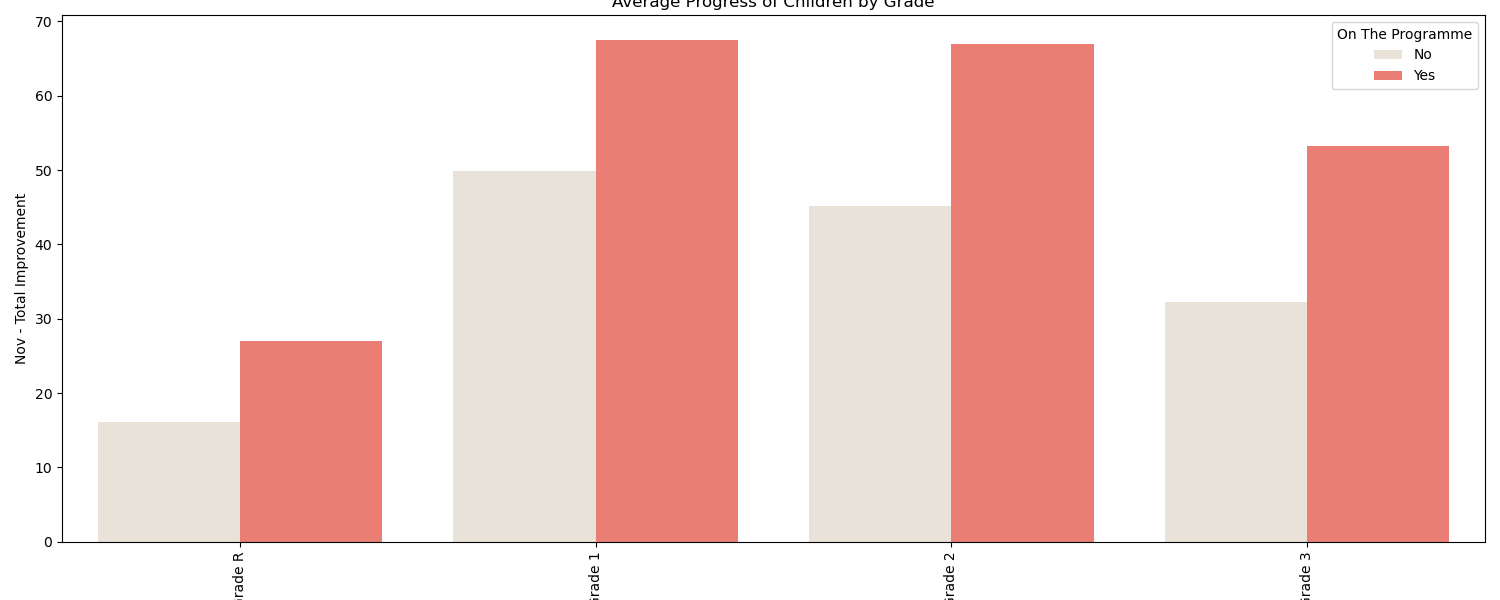
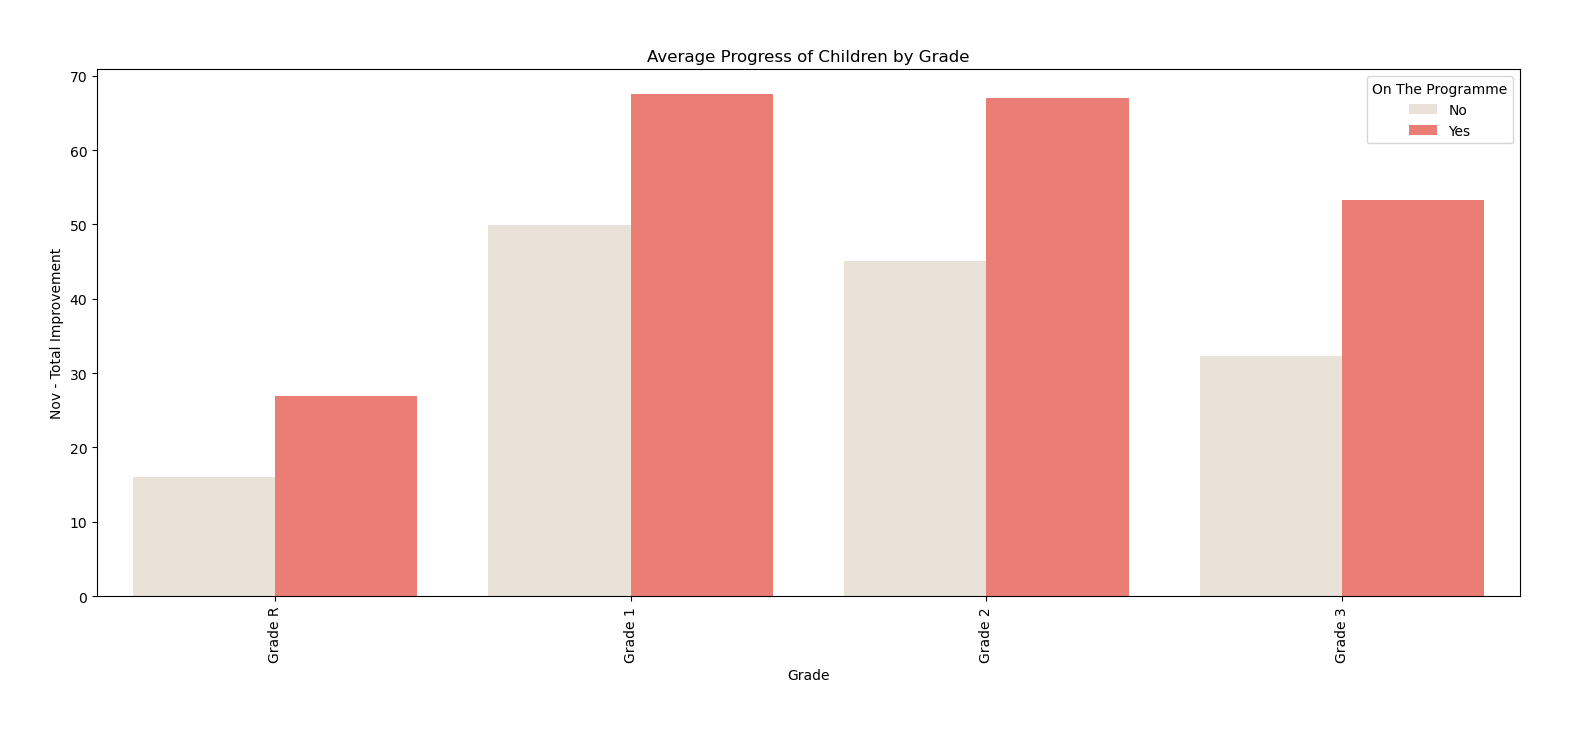
add grade, fix padding

diff --git a/primary.html b/primary.html
@@ -34,6 +34,10 @@
     <img src="static/school_total_performance_on_vs_off_sort_impact.png" alt="">        
     </div>
 
+    <h3>Grade Level Improvement</h3>
+    <img src="static/primary_total_performance_per_grade_on_vs_off.png" alt="">        
+    </div>
+
     <script src="https://cdn.jsdelivr.net/npm/bootstrap@5.3.2/dist/js/bootstrap.bundle.min.js" integrity="sha384-C6RzsynM9kWDrMNeT87bh95OGNyZPhcTNXj1NW7RuBCsyN/o0jlpcV8Qyq46cDfL" crossorigin="anonymous"></script>
 
 </body>
